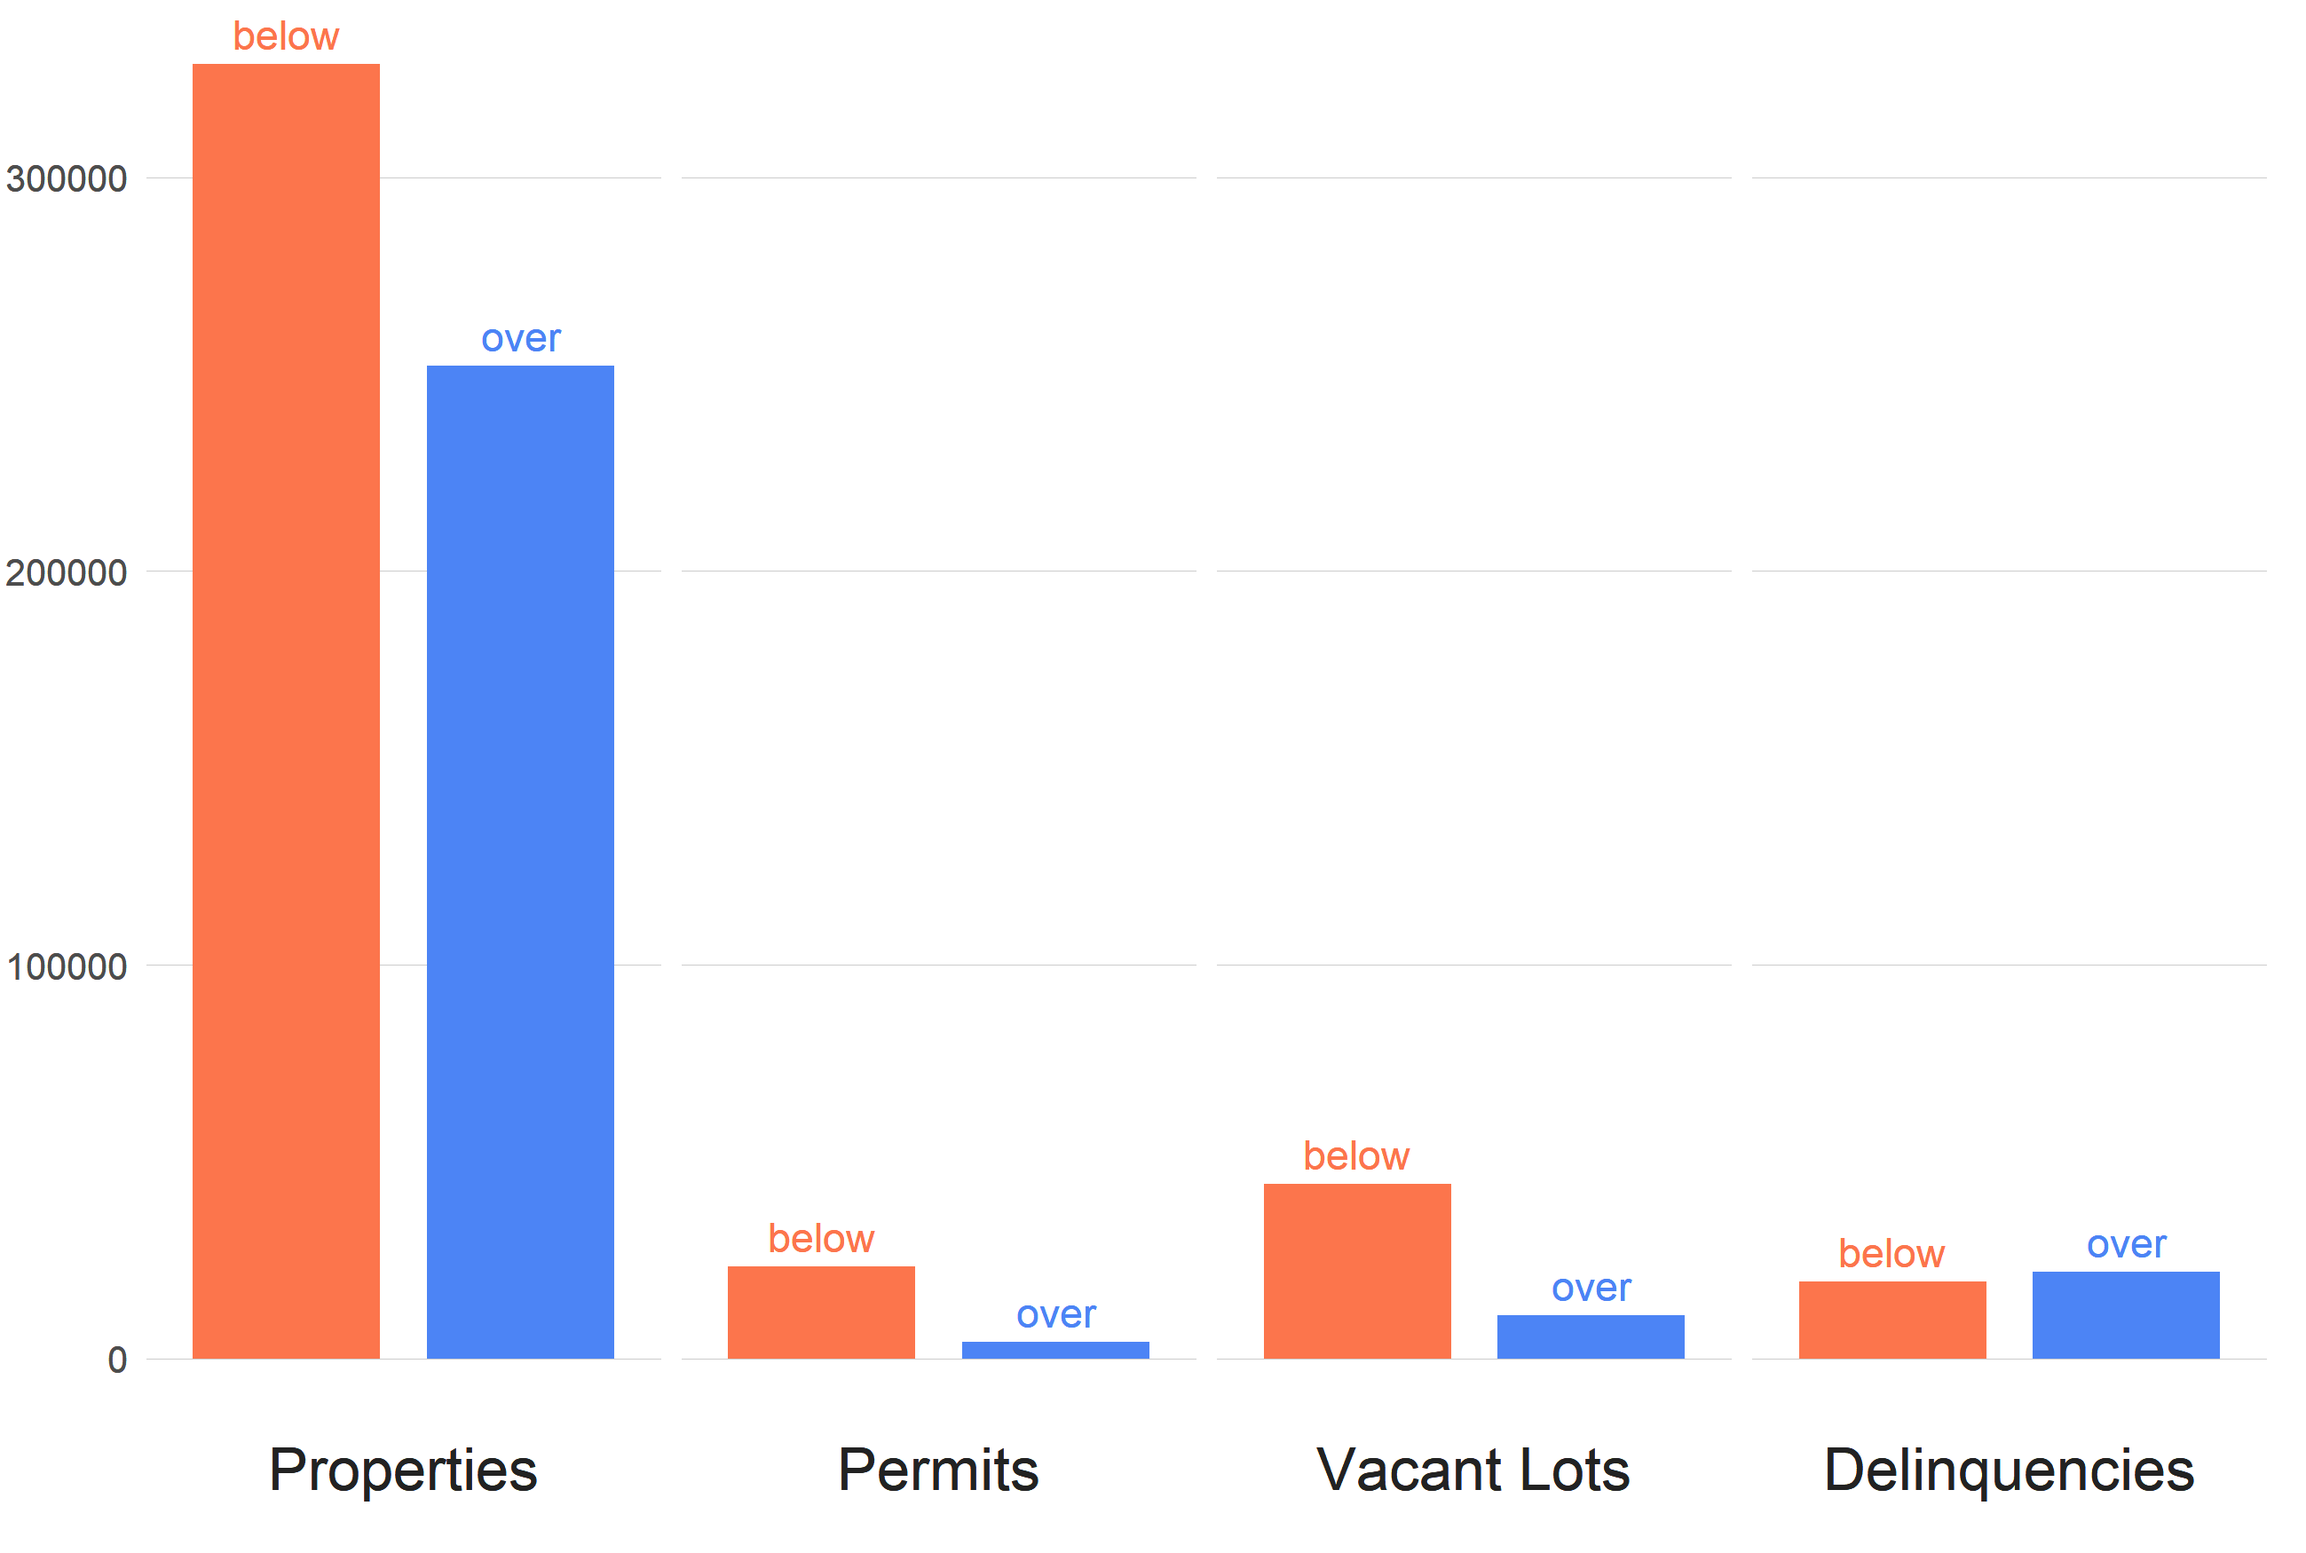
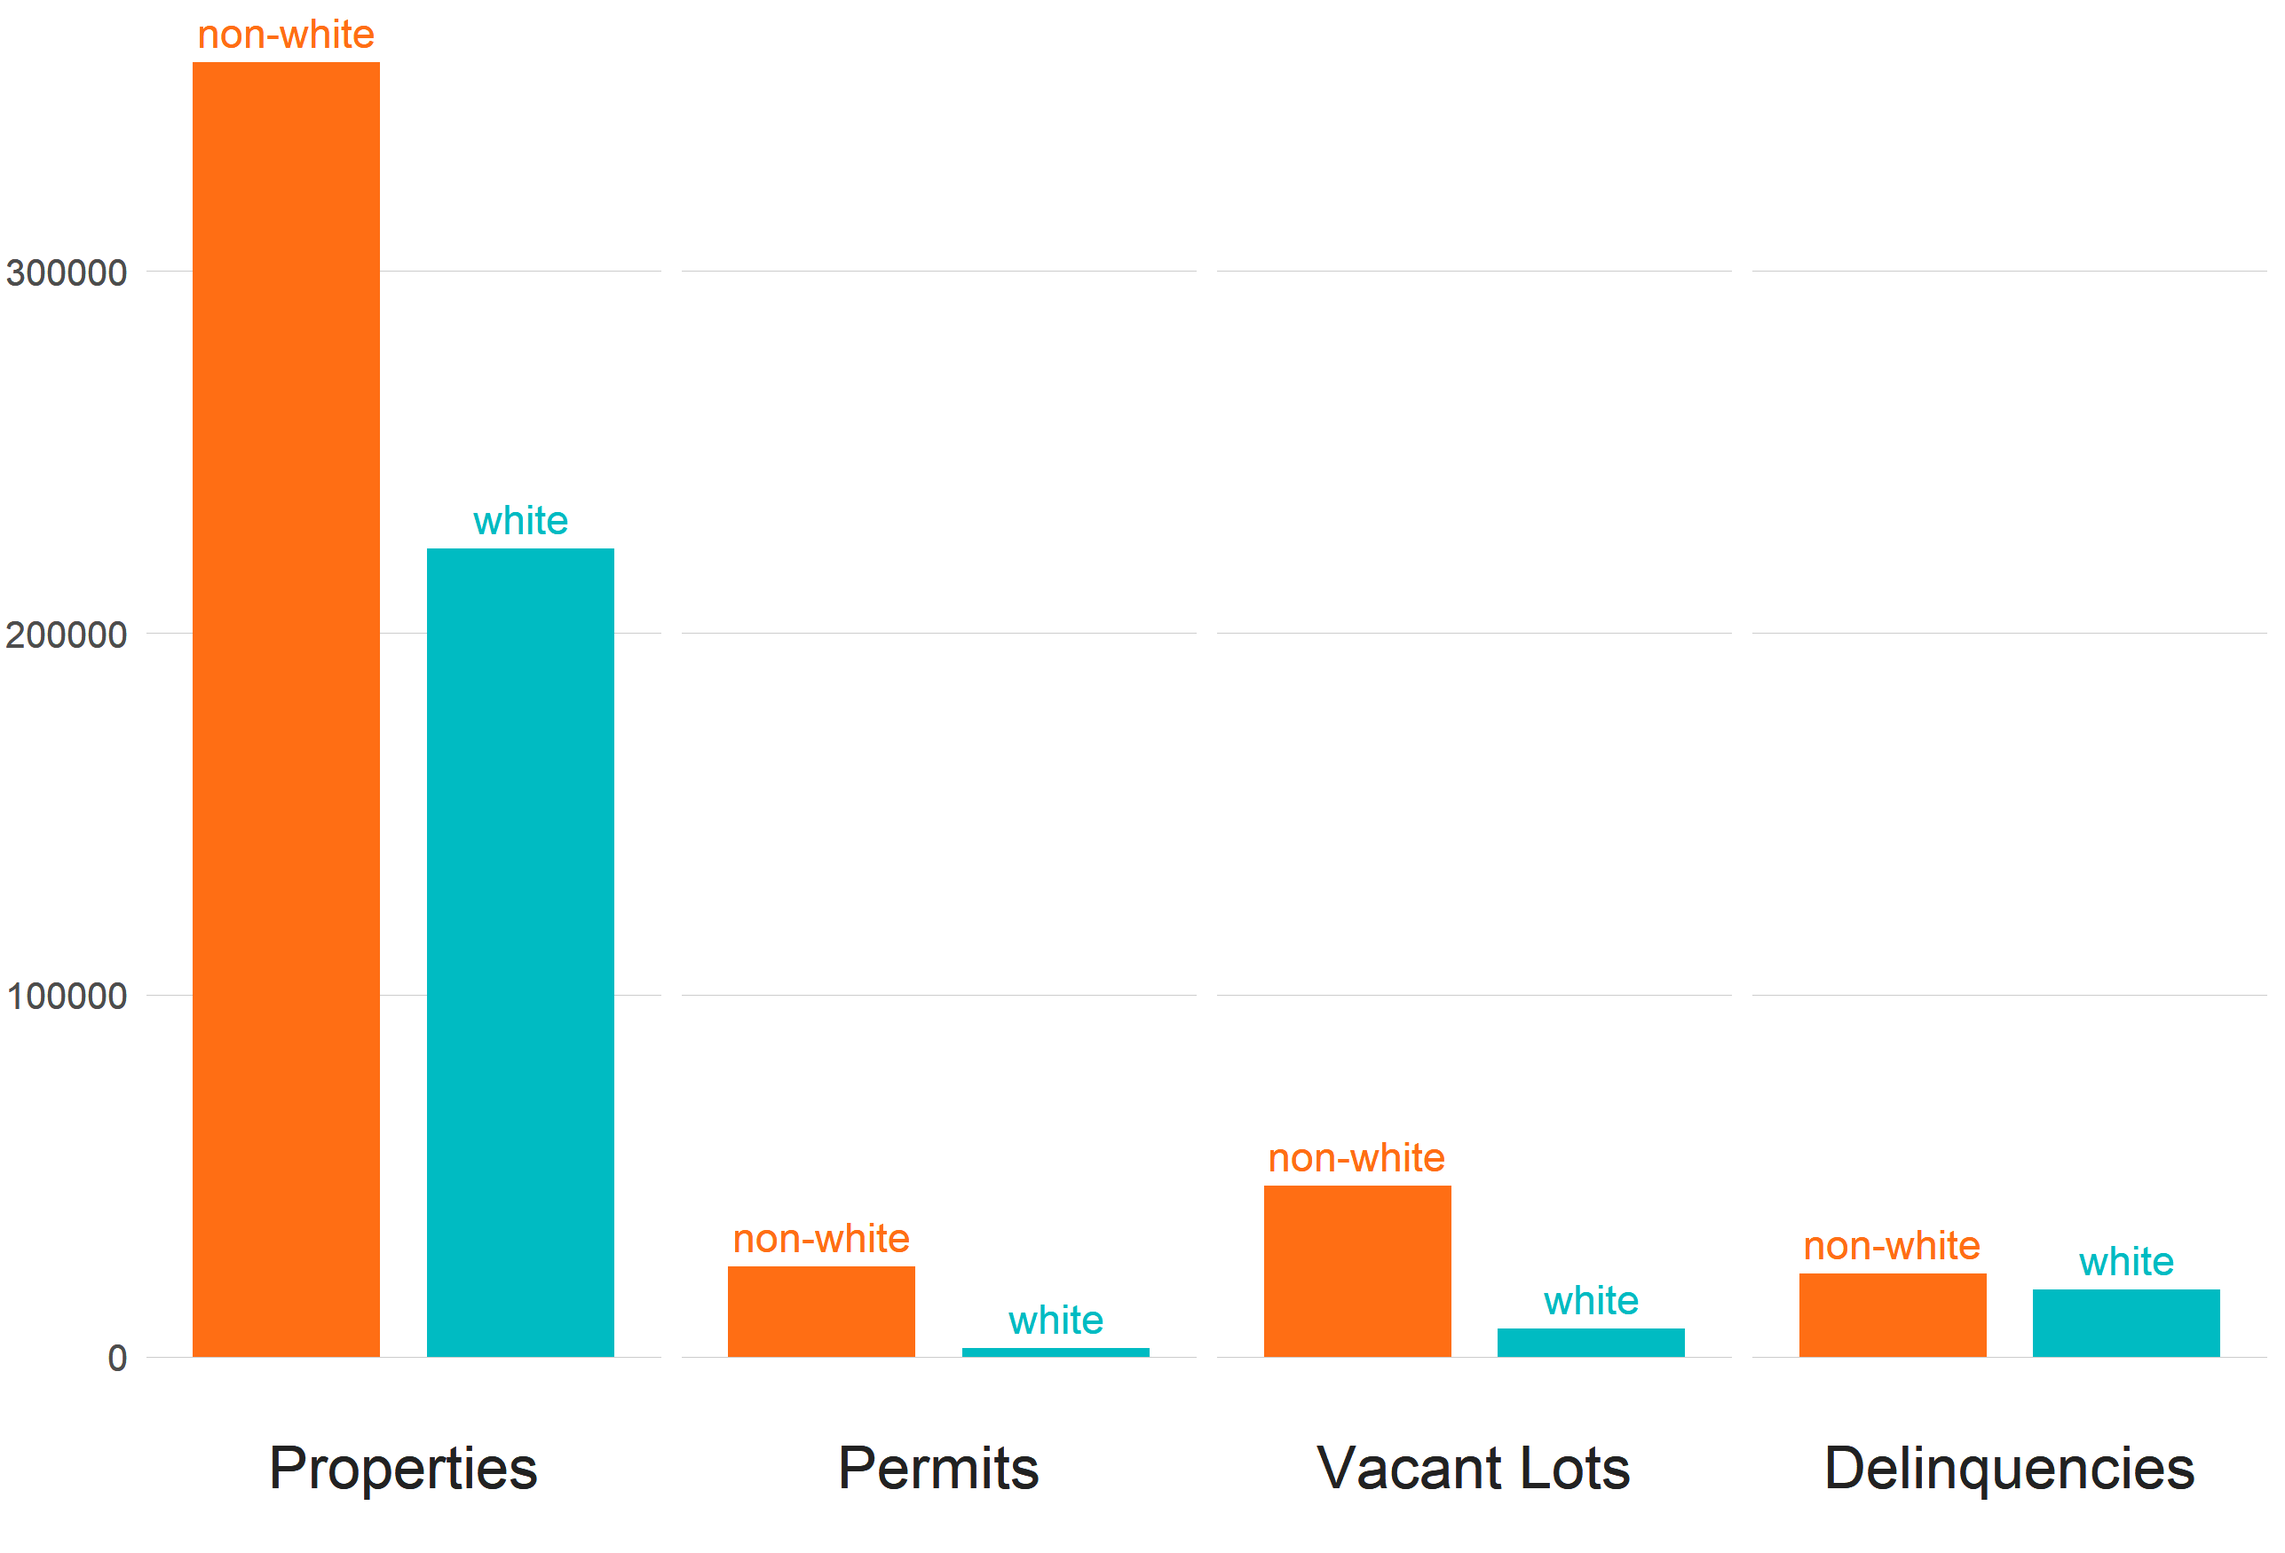
Final before presentation

diff --git a/js/layout.js b/js/layout.js
@@ -15,6 +15,7 @@ let dataCollection = { features: [] };
 let propertiesCollection = { features: [] };
 let permitsCollection = { features: [] };
 let phillyCollection = { features: [] };
+let disparityCollection = { features: [] };
 
 let slideIndex = 0;
 
@@ -109,12 +110,14 @@ function initSlides() {
 the slide corresponds with phase of the feature */
 
 let specialPhases = ['delinquent', 'usbank', 'sheriff'];
+let disparityPhases = ['racial', 'income'];
 
 function geometryCollection(slide) {
   let { phase } = slide;
   let { philly } = slide;
   let { emphasis } = slide;
   let { year } = slide;
+  let { side } = slide;
   let collection;
   if (phase === 'vacant') {
     collection = {
@@ -131,6 +134,12 @@ function geometryCollection(slide) {
     collection = {
       type: 'FeatureCollection',
       features: propertiesCollection.features.filter(f => f.properties[phase] === 1),
+      phase
+    };
+  } else if (disparityPhases.includes(phase)) {
+    collection = {
+      type: 'FeatureCollection',
+      features: disparityCollection.features.filter(f => f.properties.phase === phase),
       phase
     };
   } else {
@@ -174,15 +183,29 @@ function updateMap(collection) {
     color = "#ad3a36";
   }
 
-  const geoJsonLayer = L.geoJSON(collection, {
-    style: {
-      color,
-      fillOpacity,
-      width: 3,
-    },
-    pointToLayer: (p, latlng) => L.circleMarker(latlng, markerOptions)
+  let geoJsonLayer;
+
+  if (disparityPhases.includes(collection.phase)) {
+    geoJsonLayer = L.geoJSON(collection, {
+      style: function(f) {
+        switch (f.properties.side) {
+          case 'a': return {color: "#ff6e14", fillOpacity: 0.67, width: 0};
+          case 'b': return {color: "#00bbc2", fillOpacity: 0.67, width: 0};
+        }
+      }
+    }).addTo(geometryLayer)
+    } else {
+      geoJsonLayer = L.geoJSON(collection, {
+        style: {
+          color,
+          fillOpacity,
+          width: 3,
+        },
+        pointToLayer: (p, latlng) => L.circleMarker(latlng, markerOptions)
   })
-    .addTo(geometryLayer);
+    .addTo(geometryLayer)
+    }
+
   console.log('geometry updated!');
   return geoJsonLayer;
 }
@@ -306,6 +329,15 @@ function loadPhilly() {
     });
 }
 
+function loadDisparity() {
+  fetch('data/disparity.json')
+    .then(resp => resp.json())
+    .then(data => {
+      disparityCollection = data;
+      syncMapToCurrentSlide();
+    });
+}
+
 // 5. PROGRAM
 
 // get current slide with scrolling event
@@ -316,5 +348,6 @@ initSlides();
 syncMapToCurrentSlide();
 
 loadProperties();
+loadDisparity();
 loadPermits();
 loadData();

diff --git a/js/slides.js b/js/slides.js
@@ -224,10 +224,10 @@ const slides04 = [
     title: "",
     content: `
       `,
-    phase: 'minority',
+    phase: 'racial',
     // showpopups: true,
     bounds: [[39.9, -75.35], [40.16, -74.87]],
-    philly: true,
+    philly: false,
     emphasis: false,
   },
   {
@@ -240,13 +240,13 @@ const slides04 = [
       proporción de propiedades morosas o baldías que aquellas con mayoría de
       población blanca.
       <br></br>
-      <img src='img/disparity-02.png' alt='Racial disparity chart'>
+      <img src='img/disparity-01.png' alt='Racial disparity chart'>
     `,
-    phase: 'minority',
+    phase: 'racial',
     // showpopups: true,
     bounds: [[39.9, -75.35], [40.16, -74.87]],
-    philly: true,
-    emphasis: true,
+    philly: false,
+    emphasis: false,
   },
   {
     title: "...y los Barrios con Ingreso por Debajo de la Media.",
@@ -259,13 +259,13 @@ const slides04 = [
       el U.S. Bank deciden ejecutar la hipoteca de una propiedad baldía, el
       impacto no es el mismo para todos los grupos demográficos.
       <br></br>
-      <img src='img/disparity-01.png' alt='Racial disparity chart'>
+      <img src='img/disparity-02.png' alt='Racial disparity chart'>
     `,
     phase: 'income',
     // showpopups: true,
     bounds: [[39.9, -75.35], [40.16, -74.87]],
-    philly: true,
-    emphasis: true,
+    philly: false,
+    emphasis: false,
   },
   {
     title: "Kensington: La Frontera del Desarrollo Inmobiliario",

diff --git a/index.html b/index.html
@@ -16,7 +16,7 @@
   <div class="header hidden">
     <div class="bttn-container">
       <a class="btn btn-primary" href="https://golete.github.io/vacant-lots/dashboard.html" role="button" id="header-bttn">Ir a la Herramienta Interactiva</a>
-      <a class="btn btn-outline-primary" href="https://golete.github.io/vacant-lots/" role="button" id="header-bttn">In English</a>
+      <a class="btn btn-outline-primary" href="https://golete.github.io/vacant-lots/" role="button" id="header-bttn">In english</a>
     </div>
   </div>
 
